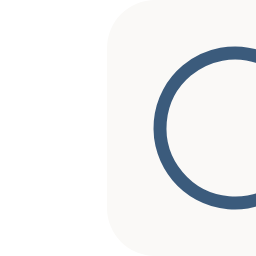
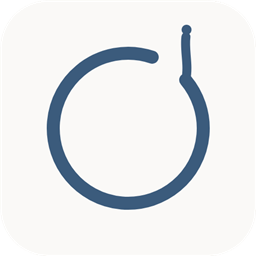
fix(frontend): rc2 内核启动回归（resourcesPath 替代 getAppPath）+ 顶栏内核状态真实化（#192） (#193)
* fix(frontend): rc2 内核启动回归（resourcesPath 替代 getAppPath）+ 顶栏内核状态真实化（#192）

* fix(electron): 托盘 logo 源图损坏（256px 内容右偏 dx=53.5）——从 512 居中版重新生成（#192 F4）

---------

Changed region(s): [[0.1562, 0.0938, 1.0, 0.8438]]

diff --git a/frontend/packages/renderer/src/App.tsx b/frontend/packages/renderer/src/App.tsx
@@ -1,5 +1,5 @@
 /** 应用骨架（spec §7.2：HashRouter 四路由 + 侧边导航 + 顶栏职责回归——页面标题/主题/语言/内核状态（品牌由侧边栏品牌区承载），不再承担导航） */
-import { useEffect } from 'react';
+import { useEffect, useState } from 'react';
 import { HashRouter, Navigate, Route, Routes, useLocation } from 'react-router-dom';
 import { useI18n } from './i18n/useI18n';
 import { useThemeEffect } from './theme';
@@ -14,6 +14,7 @@ import { ModelsPage } from './pages/models';
 import { ProjectsPage } from './pages/projects';
 import { LibraryPage } from './pages/library';
 import { SettingsPage } from './pages/settings';
+import { apiFetch } from './api/client';
 
 /** 页面标题随路由变化（顶栏文本元素；正文 h1 承担 heading 语义） */
 const TITLE_BY_PATH: Record<string, string> = {
@@ -27,6 +28,30 @@ const TITLE_BY_PATH: Record<string, string> = {
 
 function AppLayout() {
   useThemeEffect();
+  // #192 内核状态真实化（rc2 复验缺陷）：顶栏不再硬编码「内核已连接」——
+  // 挂载即探测 /health，成功 → 已连接；失败/不可达 → 未就绪；此后每 5s 轮询刷新（状态仅顶栏消费）
+  const [kernelOnline, setKernelOnline] = useState(false);
+  useEffect(() => {
+    let disposed = false;
+    const checkHealth = async (): Promise<void> => {
+      try {
+        await apiFetch('/health');
+        if (!disposed) {
+          setKernelOnline(true);
+        }
+      } catch {
+        if (!disposed) {
+          setKernelOnline(false);
+        }
+      }
+    };
+    void checkHealth();
+    const timer = setInterval(() => void checkHealth(), 5000);
+    return () => {
+      disposed = true;
+      clearInterval(timer);
+    };
+  }, []);
   // F32 设置持久化（#152，spec §5.2 步骤 ②）：挂载时双轨加载设置（localStorage 快照 → 后端覆盖），恰好一次
   useEffect(() => {
     void useThemeStore.getState().initFromBackend();
@@ -80,7 +105,9 @@ function AppLayout() {
                 <SelectItem value="en">{t('lang.en')}</SelectItem>
               </SelectContent>
             </Select>
-            <span className="text-[12px] text-ink-3 [-webkit-app-region:no-drag]">{t('sb.kernel')}</span>
+            <span className="text-[12px] text-ink-3 [-webkit-app-region:no-drag]">
+              {kernelOnline ? t('sb.kernel') : t('sb.kernelOffline')}
+            </span>
             <WindowControls />
           </div>
         </header>

diff --git a/frontend/packages/renderer/src/App.header.test.tsx b/frontend/packages/renderer/src/App.header.test.tsx
@@ -116,8 +116,23 @@ describe('App 顶栏 — 主题/语言 Radix Select 契约升级（#106 §8.2⑤
     // 循环按钮移除（RED：现状仍存在 → FAIL）
     expect(within(banner).queryByTestId('header-theme-toggle')).not.toBeInTheDocument();
     expect(within(banner).queryByTestId('header-lang')).not.toBeInTheDocument();
-    // 内核状态保留
-    expect(within(banner).getByText('内核已连接')).toBeInTheDocument();
+    // 内核状态保留（#192：状态真实化——挂载后 /health 成功才显示「内核已连接」；
+    // apiFetch mock 默认 resolve → waitFor 后变已连接）
+    await waitFor(() => {
+      expect(within(banner).getByText('内核已连接')).toBeInTheDocument();
+    });
+  });
+
+  // ⚠ #192 rc2 复验缺陷（2026-08-08）：顶栏「内核已连接」恒显（App.tsx 硬编码 t('sb.kernel')），
+  // 内核启动失败时仍显示已连接——sb.kernelOffline「内核未就绪」i18n key 存在但全仓未使用。
+  // RED 契约：/health 请求失败（内核不可达）→ 顶栏显示「内核未就绪」。
+  it('#192 内核状态真实化：/health 失败 → 顶栏显示「内核未就绪」（不再恒显「内核已连接」）', async () => {
+    apiFetchMock.mockRejectedValue(new Error('kernel unreachable'));
+    render(<App />);
+    await waitFor(() => {
+      expect(screen.getByText('内核未就绪')).toBeInTheDocument();
+    });
+    expect(screen.queryByText('内核已连接')).not.toBeInTheDocument();
   });
 
   it('主题 Select：回读当前主题 + 展开可见全部选项（三主题）+ 选择直达生效（setTheme）', async () => {

diff --git a/frontend/packages/electron/src/main.ts b/frontend/packages/electron/src/main.ts
@@ -172,11 +172,13 @@ function resolveKernelCommandForSpawn(): { command: string; args: string[] } {
   const resolved = resolveKernelCommand({
     isPackaged: app.isPackaged,
     env: process.env,
-    // #187 任意 cwd 启动：打包版传绝对路径（app.getAppPath() 定位 resources/kernel/inkflow.exe）；
-    // typeof 守卫兼容测试 mock 缺失 getAppPath（与 resolveKernelStatePath/requestSingleInstanceLock 同款防御）
+    // #187 任意 cwd 启动：打包版传绝对路径（process.resourcesPath 定位 resources/kernel/inkflow.exe）；
+    // #192：app.getAppPath() 打包版返回 app.asar 路径是错误基准（join 出不存在路径 → ENOENT）；
+    // process.resourcesPath 是 Electron 标准 resources 定位（打包版 = <app>/resources，kernel 目录与其同级）；
+    // truthy 守卫兼容测试 mock 缺失 resourcesPath（Node 测试进程无此属性，与 resolveKernelStatePath/requestSingleInstanceLock 同款防御）
     packagedKernelPath:
-      app.isPackaged && typeof app.getAppPath === 'function'
-        ? path.join(app.getAppPath(), 'resources', 'kernel', 'inkflow.exe')
+      app.isPackaged && process.resourcesPath
+        ? path.join(process.resourcesPath, 'kernel', 'inkflow.exe')
         : undefined,
   });
   if (app.isPackaged || path.isAbsolute(resolved.command)) {
